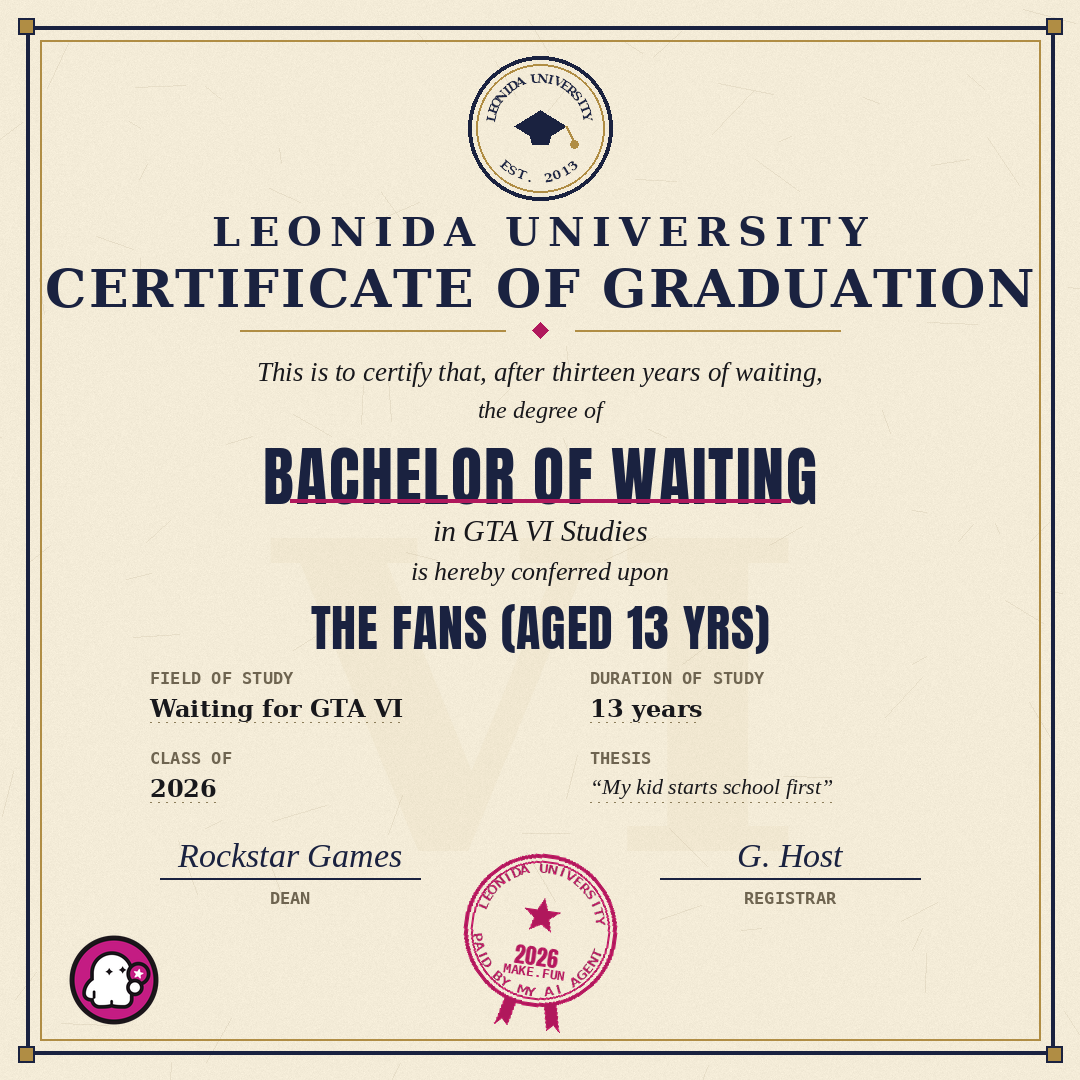
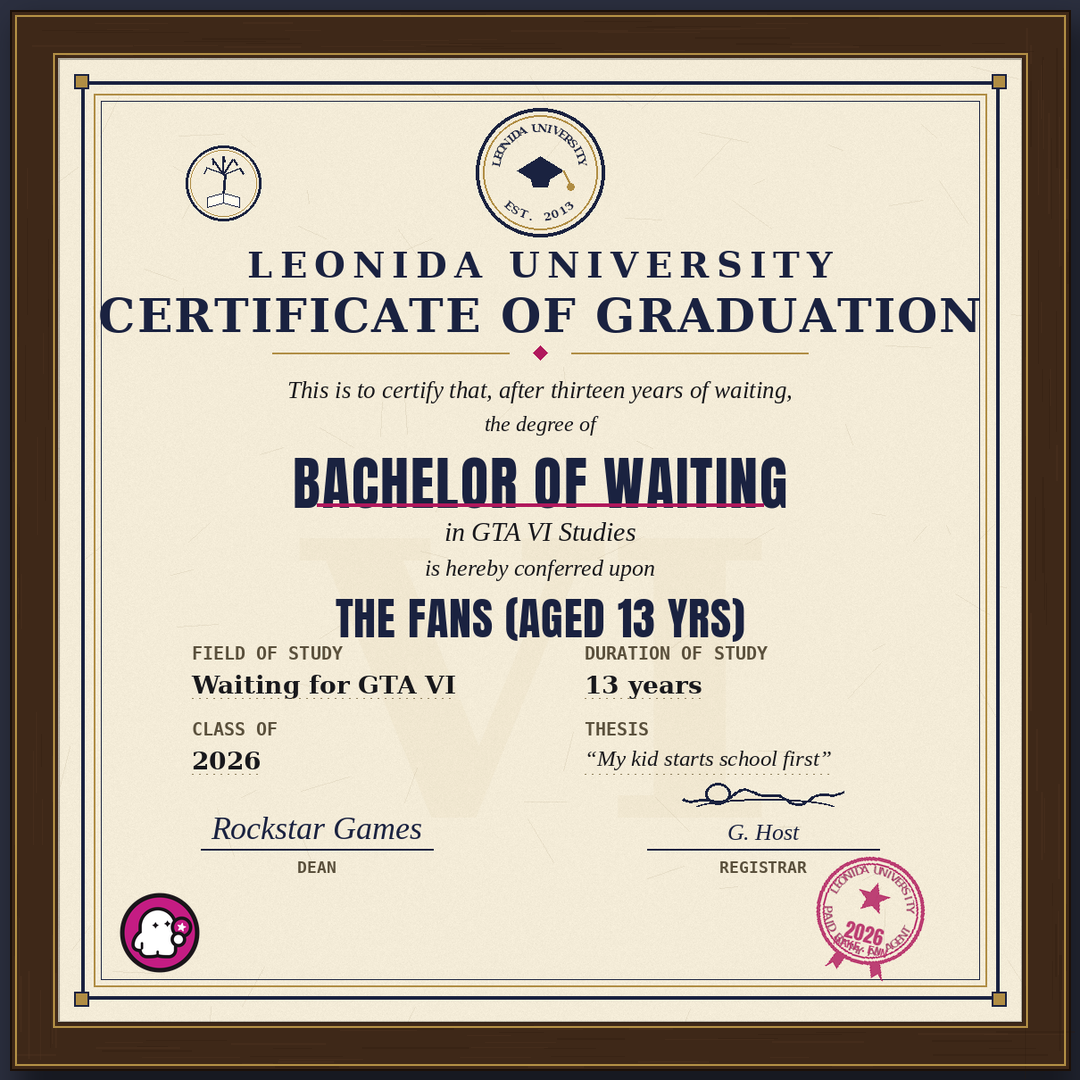
Meme #4 v4: certificate polish (framed diploma, bigger grid text, squiggle signature, relocated stamp, crest, triple border)

diff --git a/meme4_v4_generator.py b/meme4_v4_generator.py
@@ -1,0 +1,361 @@
+#!/usr/bin/env python3
+"""Meme #4 (rebuild v4): BACHELOR'S DEGREE CERTIFICATE for waiting for GTA VI,
+polished + FRAMED like a diploma hung on a wall.
+
+Concept (ours, per user: "sertifikat sarjana"): Leonida University confers
+the degree of Bachelor of Waiting in GTA VI Studies upon the fans.
+Style: luxurious official certificate -- ornate triple frame, paper
+texture, circular university seal, round rubber stamp + ribbon, signatures,
+plus a small book+palm crest and a hand-squiggle Registrar signature.
+The certificate is mounted in a classic dark-wood frame with thin gold
+trim on a dark wall, with a soft drop shadow.
+All art is procedural (PIL); the make.fun ghost mark is composited from
+the press-kit asset in assets/mark-1024.png. 1080x1080, deterministic.
+"""
+import math
+import random
+from datetime import date
+
+from PIL import Image, ImageDraw, ImageFont, ImageChops, ImageFilter
+
+W = H = 1080
+OUT = "meme-4.png"
+ASSETS = "assets"
+ANTON = f"{ASSETS}/Anton-Regular.ttf"
+SERIF = "/usr/share/fonts/truetype/dejavu/DejaVuSerif-Bold.ttf"
+SERIF_IT = "/usr/share/fonts/truetype/liberation/LiberationSerif-Italic.ttf"
+SERIF_R = "/usr/share/fonts/truetype/dejavu/DejaVuSerif.ttf"
+MONO = "/usr/share/fonts/truetype/dejavu/DejaVuSansMono-Bold.ttf"
+SANS = "/usr/share/fonts/truetype/dejavu/DejaVuSans-Bold.ttf"
+
+NAVY = (26, 34, 64)
+NAVY_D = (18, 25, 45)
+CREAM = (244, 236, 216)
+INK = (24, 24, 28)
+RED = (178, 34, 34)
+MAGENTA = (176, 24, 92)
+GOLD = (176, 141, 68)
+GOLD_L = (201, 168, 92)
+WALL = (43, 47, 63)
+WOOD = (62, 40, 24)
+WOOD_L = (84, 56, 34)
+WOOD_D = (42, 24, 12)
+
+TODAY = date(2026, 11, 20)  # fixed so re-runs are byte-identical
+
+
+def font(path, size):
+    return ImageFont.truetype(path, size)
+
+
+def text_center(draw, cx, y, s, f, fill, spacing=0):
+    """Draw text centred on cx."""
+    if spacing:
+        widths = [draw.textlength(ch, font=f) for ch in s]
+        total = sum(widths) + spacing * (len(s) - 1)
+        x = cx - total / 2
+        for ch, w in zip(s, widths):
+            draw.text((x, y), ch, font=f, fill=fill)
+            x += w + spacing
+        return total
+    w = draw.textlength(s, font=f)
+    draw.text((cx - w / 2, y), s, font=f, fill=fill)
+    return w
+
+
+def arc_text(base, cx, cy, r, text, f, fill, a0, a1, bottom=False):
+    """Draw text along a circle. a0..a1 in degrees, 0 = top (or bottom)."""
+    n = len(text)
+    for i, ch in enumerate(text):
+        t = a0 + (a1 - a0) * (i / max(1, n - 1)) if n > 1 else (a0 + a1) / 2
+        th = math.radians(t)
+        if bottom:
+            x = cx + r * math.sin(th)
+            y = cy + r * math.cos(th)
+            rot = t
+        else:
+            x = cx + r * math.sin(th)
+            y = cy - r * math.cos(th)
+            rot = -t
+        tile = Image.new("RGBA", (60, 60), (0, 0, 0, 0))
+        td = ImageDraw.Draw(tile)
+        td.text((30, 30), ch, font=f, fill=fill, anchor="mm")
+        tile = tile.rotate(rot, expand=False, resample=Image.BICUBIC, center=(30, 30))
+        base.paste(tile, (int(x - 30), int(y - 30)), tile)
+
+
+def star(draw, cx, cy, r_out, r_in, fill):
+    pts = []
+    for k in range(10):
+        r = r_out if k % 2 == 0 else r_in
+        ang = -math.pi / 2 + k * math.pi / 5
+        pts.append((cx + r * math.cos(ang), cy + r * math.sin(ang)))
+    draw.polygon(pts, fill=fill)
+
+
+def paper_texture(base, rng_seed=11):
+    tile = Image.effect_noise((270, 250), 14).convert("L")
+    tile = tile.point(lambda v: 128 + (v - 128) // 6)
+    tex = Image.new("L", base.size, 128)
+    for ty in range(0, base.size[1], 250):
+        for tx in range(0, base.size[0], 270):
+            tex.paste(tile, (tx, ty))
+    fib = Image.new("RGBA", base.size, (0, 0, 0, 0))
+    fd = ImageDraw.Draw(fib)
+    rng = random.Random(rng_seed)
+    for _ in range(90):
+        x, y = rng.randint(0, W), rng.randint(0, H)
+        ln = rng.randint(12, 60)
+        ang = rng.uniform(0, math.pi)
+        fd.line([(x, y), (x + ln * math.cos(ang), y + ln * math.sin(ang))],
+                fill=(120, 100, 60, 26), width=1)
+    out = ImageChops.add(base.convert("RGB"), Image.merge("RGB", (tex, tex, tex)),
+                         scale=1.0, offset=-128)
+    out.paste(fib, (0, 0), fib)
+    return out
+
+
+def draw_seal(img, cx, cy, r):
+    """Circular university seal with a graduation cap in the centre."""
+    layer = Image.new("RGBA", img.size, (0, 0, 0, 0))
+    d = ImageDraw.Draw(layer)
+    d.ellipse([cx - r, cy - r, cx + r, cy + r], outline=NAVY + (255,), width=4)
+    d.ellipse([cx - r + 8, cy - r + 8, cx + r - 8, cy + r - 8],
+              outline=GOLD + (255,), width=2)
+    f_arc = font(SERIF, 13)
+    arc_text(layer, cx, cy, r - 22, "LEONIDA UNIVERSITY", f_arc, NAVY + (255,),
+             -78, 78)
+    arc_text(layer, cx, cy, r - 22, "EST. 2013", f_arc, NAVY + (255,),
+             -42, 42, bottom=True)
+    # graduation cap: board diamond + head + tassel
+    d.polygon([(cx - 26, cy - 2), (cx, cy - 18), (cx + 26, cy - 2), (cx, cy + 14)],
+              fill=NAVY + (255,))
+    d.polygon([(cx - 12, cy + 2), (cx + 12, cy + 2), (cx + 8, cy + 16),
+               (cx - 8, cy + 16)], fill=NAVY + (255,))
+    d.line([(cx + 26, cy - 2), (cx + 34, cy + 14)], fill=GOLD + (255,), width=3)
+    d.ellipse([cx + 30, cy + 12, cx + 38, cy + 20], fill=GOLD + (255,))
+    img.paste(layer, (0, 0), layer)
+
+
+def draw_emblem(img, cx, cy, r):
+    """Small round crest: palm tree over an open book (Leonida vibes)."""
+    layer = Image.new("RGBA", img.size, (0, 0, 0, 0))
+    d = ImageDraw.Draw(layer)
+    d.ellipse([cx - r, cy - r, cx + r, cy + r], outline=NAVY + (255,), width=3)
+    d.ellipse([cx - r + 5, cy - r + 5, cx + r - 5, cy + r - 5],
+              outline=GOLD + (255,), width=1)
+    # palm: trunk + fronds
+    px, py = cx, cy - 2
+    d.line([(px, py + 16), (px + 2, py - 8)], fill=NAVY + (255,), width=3)
+    for ang in (-70, -35, 0, 35, 70):
+        a = math.radians(-90 + ang)
+        x2 = px + 20 * math.cos(a)
+        y2 = py - 8 + 20 * math.sin(a)
+        d.line([(px, py - 8), (x2, y2)], fill=NAVY + (255,), width=2)
+        d.line([(x2, y2), (x2 + 4 * math.cos(a + 0.5), y2 + 6)],
+               fill=NAVY + (255,), width=2)
+    # open book below the palm
+    by = cy + 16
+    d.polygon([(cx - 18, by), (cx, by - 5), (cx, by + 6), (cx - 18, by + 11)],
+              outline=NAVY + (255,), fill=(255, 252, 240, 255))
+    d.polygon([(cx + 18, by), (cx, by - 5), (cx, by + 6), (cx + 18, by + 11)],
+              outline=NAVY + (255,), fill=(255, 252, 240, 255))
+    img.paste(layer, (0, 0), layer)
+
+
+def draw_squiggle(d, cx, cy, w, fill):
+    """Hand-drawn signature squiggle: wavy line + loop + flourish."""
+    pts = []
+    n = 100
+    for i in range(n + 1):
+        t = i / n
+        x = cx - w / 2 + w * t
+        y = cy + 6 * math.sin(t * 11.0) + 3 * math.sin(t * 27.0 + 1.0)
+        pts.append((x, y))
+    d.line(pts, fill=fill, width=3, joint="curve")
+    lx = cx - w * 0.28
+    d.arc([lx - 14, cy - 16, lx + 14, cy + 8], 0, 360, fill=fill, width=3)
+    d.arc([cx - w / 2 + 10, cy + 2, cx + w / 2 - 6, cy + 26], 200, 340,
+          fill=fill, width=2)
+
+
+def draw_stamp(img, cx, cy, r, rot=-15, alpha=205):
+    """Round magenta stamp + ribbon tails, rotated, faded ink."""
+    side = 2 * r + 40
+    layer = Image.new("RGBA", (side, side), (0, 0, 0, 0))
+    d = ImageDraw.Draw(layer)
+    cc = side // 2
+    m = MAGENTA + (alpha,)
+    d.ellipse([cc - r, cc - r, cc + r, cc + r], outline=m, width=4)
+    d.ellipse([cc - r + 7, cc - r + 7, cc + r - 7, cc + r - 7], outline=m, width=2)
+    f_arc = font(SANS, 13)
+    arc_text(layer, cc, cc, r - 14, "LEONIDA UNIVERSITY", f_arc, m, -75, 75)
+    arc_text(layer, cc, cc, r - 14, "PAID BY MY AI AGENT", f_arc, m,
+             -75, 75, bottom=True)
+    star(d, cc, cc - 14, 18, 8, m)
+    f_y = font(ANTON, 22)
+    text_center(d, cc, cc + 10, "2026", f_y, m)
+    f_m = font(MONO, 13)
+    text_center(d, cc, cc + 34, "MAKE.FUN", f_m, m)
+    # ribbon tails below the seal (shortened so they stay inside the border)
+    d.polygon([(cc - 26, cc + r - 4), (cc - 14, cc + r - 4), (cc - 20, cc + r + 12),
+               (cc - 26, cc + r + 6), (cc - 32, cc + r + 12)], fill=m)
+    d.polygon([(cc + 14, cc + r - 4), (cc + 26, cc + r - 4), (cc + 32, cc + r + 12),
+               (cc + 26, cc + r + 6), (cc + 20, cc + r + 12)], fill=m)
+    layer = layer.rotate(rot, expand=True, resample=Image.BICUBIC)
+    img.paste(layer, (cx - layer.width // 2, cy - layer.height // 2), layer)
+
+
+def diamond(draw, cx, cy, s, fill):
+    draw.polygon([(cx, cy - s), (cx + s, cy), (cx, cy + s), (cx - s, cy)], fill=fill)
+
+
+def render_certificate():
+    # paper
+    img = paper_texture(Image.new("RGB", (W, H), CREAM))
+    d = ImageDraw.Draw(img, "RGBA")
+
+    # faint "VI" watermark
+    wm = Image.new("RGBA", (W, H), (0, 0, 0, 0))
+    wd = ImageDraw.Draw(wm)
+    wd.text((W // 2, 700), "VI", font=font(SERIF, 430), fill=GOLD + (12,),
+            anchor="mm")
+    img.paste(Image.alpha_composite(img.convert("RGBA"), wm).convert("RGB"), (0, 0))
+    d = ImageDraw.Draw(img, "RGBA")
+
+    # ornate triple frame + corner squares
+    d.rectangle([26, 26, 1054, 1054], outline=NAVY, width=4)
+    d.rectangle([40, 40, 1040, 1040], outline=GOLD, width=2)
+    d.rectangle([48, 48, 1032, 1032], outline=NAVY, width=1)
+    for cx, cy in ((26, 26), (1054, 26), (26, 1054), (1054, 1054)):
+        d.rectangle([cx - 8, cy - 8, cx + 8, cy + 8], fill=GOLD, outline=NAVY, width=2)
+
+    # university seal
+    draw_seal(img, 540, 128, 72)
+    d = ImageDraw.Draw(img, "RGBA")
+
+    # small book+palm crest, top-left empty area
+    draw_emblem(img, 185, 140, 42)
+    d = ImageDraw.Draw(img, "RGBA")
+
+    # headings
+    text_center(d, 540, 208, "LEONIDA UNIVERSITY", font(SERIF, 40), NAVY, spacing=8)
+    text_center(d, 540, 258, "CERTIFICATE OF GRADUATION", font(SERIF, 52), NAVY,
+                spacing=2)
+    d.line([(240, 330), (505, 330)], fill=GOLD, width=2)
+    d.line([(575, 330), (840, 330)], fill=GOLD, width=2)
+    diamond(d, 540, 330, 8, MAGENTA)
+
+    # body
+    f_it = font(SERIF_IT, 27)
+    text_center(d, 540, 356, "This is to certify that, after thirteen years of waiting,",
+                f_it, INK)
+    text_center(d, 540, 396, "the degree of", font(SERIF_IT, 24), INK)
+    text_center(d, 540, 428, "BACHELOR OF WAITING", font(ANTON, 64), NAVY, spacing=2)
+    d.line([(290, 500), (790, 500)], fill=MAGENTA, width=4)
+    text_center(d, 540, 514, "in GTA VI Studies", font(SERIF_IT, 30), INK)
+    text_center(d, 540, 556, "is hereby conferred upon", font(SERIF_IT, 26), INK)
+    text_center(d, 540, 590, "THE FANS (AGED 13 YRS)", font(ANTON, 50), NAVY, spacing=1)
+
+    # details grid (2 x 2) with dotted leader lines -- bigger fonts, more air
+    f_lab = font(MONO, 20)
+    f_val = font(SERIF, 28)
+    f_val_it = font(SERIF_IT, 25)
+    lab_fill = (90, 80, 60)
+    grid = [((150, 655), "FIELD OF STUDY", "Waiting for GTA VI", f_val),
+            ((590, 655), "DURATION OF STUDY", "13 years", f_val),
+            ((150, 740), "CLASS OF", "2026", f_val),
+            ((590, 740), "THESIS", "“My kid starts school first”", f_val_it)]
+    for (gx, gy), lab, val, vf in grid:
+        d.text((gx, gy), lab, font=f_lab, fill=lab_fill)
+        d.text((gx, gy + 30), val, font=vf, fill=INK)
+        vw = d.textlength(val, font=vf)
+        for xx in range(gx, int(gx + vw), 8):
+            d.point((xx, gy + 62), fill=(140, 125, 90))
+            d.point((xx + 1, gy + 62), fill=(140, 125, 90))
+
+    # signatures
+    f_sig = font(SERIF_IT, 36)
+    f_tit = font(MONO, 18)
+    # Dean: italic signature as before, slightly bigger
+    text_center(d, 290, 842, "Rockstar Games", f_sig, NAVY)
+    d.line([(160, 886), (420, 886)], fill=NAVY, width=2)
+    text_center(d, 290, 896, "DEAN", f_tit, lab_fill)
+    # Registrar: hand squiggle (the real signature) + typed name below it
+    draw_squiggle(d, 790, 828, 180, NAVY)
+    text_center(d, 790, 852, "G. Host", font(SERIF_IT, 26), NAVY)
+    d.line([(660, 886), (920, 886)], fill=NAVY, width=2)
+    text_center(d, 790, 896, "REGISTRAR", f_tit, lab_fill)
+
+    # round stamp + ribbon, bottom-right empty area, faded ink, -15 deg
+    draw_stamp(img, 910, 955, 60, rot=-15, alpha=205)
+    d = ImageDraw.Draw(img, "RGBA")
+
+    # ghost mark, bottom-left corner
+    ghost = Image.open(f"{ASSETS}/mark-1024.png").convert("RGBA")
+    ghost.thumbnail((96, 96), Image.LANCZOS)
+    img.paste(ghost, (66, 1036 - ghost.height - 8), ghost)
+
+    return img
+
+
+def draw_frame(cert):
+    """Mount the certificate in a classic dark-wood frame on a dark wall."""
+    img = Image.new("RGB", (W, H), WALL)
+    # soft drop shadow behind the frame
+    sh = Image.new("RGBA", (W, H), (0, 0, 0, 0))
+    sd = ImageDraw.Draw(sh)
+    sd.rectangle([18, 22, 1078, 1080], fill=(0, 0, 0, 120))
+    sh = sh.filter(ImageFilter.GaussianBlur(14))
+    img = Image.alpha_composite(img.convert("RGBA"), sh).convert("RGB")
+    d = ImageDraw.Draw(img, "RGBA")
+    # wood band
+    d.rectangle([10, 10, 1070, 1070], fill=WOOD)
+    rng = random.Random(7)
+    for _ in range(170):
+        band = rng.randrange(4)
+        if band == 0:  # top, horizontal grain
+            x = rng.randint(14, 1000)
+            y = rng.randint(13, 55)
+            ln = rng.randint(30, 120)
+            d.line([(x, y), (x + ln, y)], fill=rng.choice(
+                [WOOD_L + (70,), WOOD_D + (70,)]), width=rng.choice([1, 1, 2]))
+        elif band == 2:  # bottom, horizontal grain
+            x = rng.randint(14, 1000)
+            y = rng.randint(1025, 1067)
+            ln = rng.randint(30, 120)
+            d.line([(x, y), (x + ln, y)], fill=rng.choice(
+                [WOOD_L + (70,), WOOD_D + (70,)]), width=rng.choice([1, 1, 2]))
+        elif band == 3:  # left, vertical grain
+            x = rng.randint(13, 55)
+            y = rng.randint(14, 1000)
+            ln = rng.randint(30, 120)
+            d.line([(x, y), (x, y + ln)], fill=rng.choice(
+                [WOOD_L + (70,), WOOD_D + (70,)]), width=rng.choice([1, 1, 2]))
+        else:  # right, vertical grain
+            x = rng.randint(1025, 1067)
+            y = rng.randint(14, 1000)
+            ln = rng.randint(30, 120)
+            d.line([(x, y), (x, y + ln)], fill=rng.choice(
+                [WOOD_L + (70,), WOOD_D + (70,)]), width=rng.choice([1, 1, 2]))
+    # bevel + gold trims
+    d.rectangle([10, 10, 1070, 1070], outline=(28, 16, 8), width=2)
+    d.rectangle([15, 15, 1065, 1065], outline=GOLD, width=2)
+    d.rectangle([53, 53, 1027, 1027], outline=GOLD, width=2)
+    # mount the certificate inside the frame
+    small = cert.resize((964, 964), Image.LANCZOS)
+    img.paste(small, (58, 58))
+    d = ImageDraw.Draw(img, "RGBA")
+    d.rectangle([58, 58, 1022, 1022], outline=(0, 0, 0, 70), width=2)
+    return img
+
+
+def main():
+    cert = render_certificate()
+    img = draw_frame(cert)
+    img.save(OUT, optimize=True)
+    print("saved", OUT)
+
+
+if __name__ == "__main__":
+    main()
